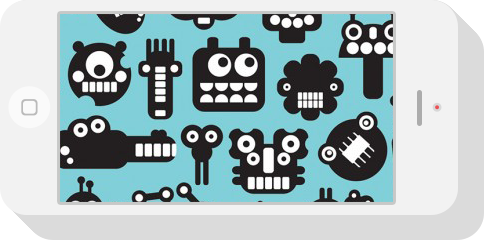
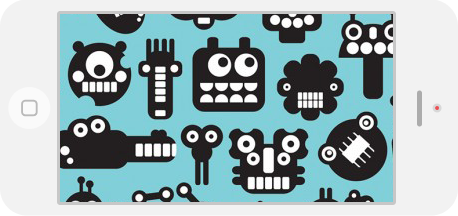
fix: bug with shadow in phones

diff --git a/style.css b/style.css
@@ -140,7 +140,7 @@ body{
     width: 334px;
     background-color: black;
     position: absolute;
-    margin-left: 374px;
+    margin-left: 372px;
     margin-top: 134px;
     display: none;
 
@@ -154,14 +154,23 @@ body{
     display: flex;
 }
 .slider__content_phone-vertical{
-    padding-right: 57px;
-    padding-bottom: 2px;
+    padding-right: 97px;
+    padding-bottom: 27px;
+ 
+}
+.slider__content_phone-vertical img{
+    box-shadow: 20px 20px 1px 5px #0002;
+    border-radius: 25px;
 }
 .slider__content_phone-horizontal{
     padding-top: 121px;
-    padding-left: 18px;
+    padding-right: 30px;
+    
 }
-
+.slider__content_phone-horizontal img{
+    box-shadow: 20px 20px 1px 5px #0002;
+    border-radius: 25px;
+}
 .slider_bottom-line{
     height: 6px;
     background-color: #ea676b;;
